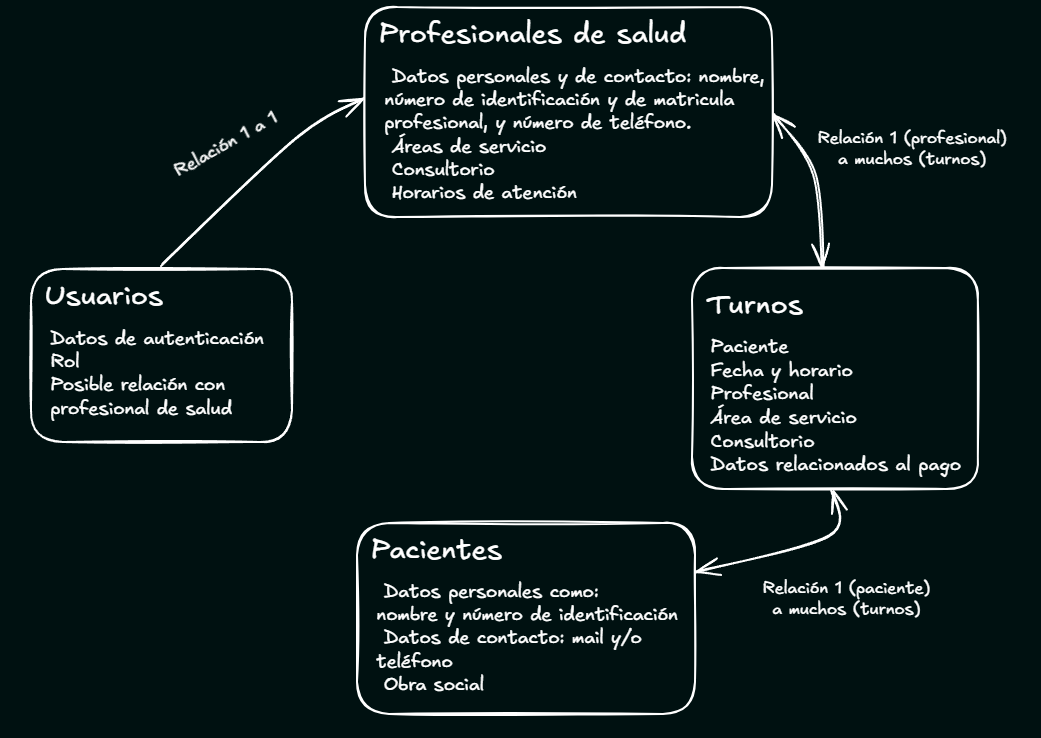
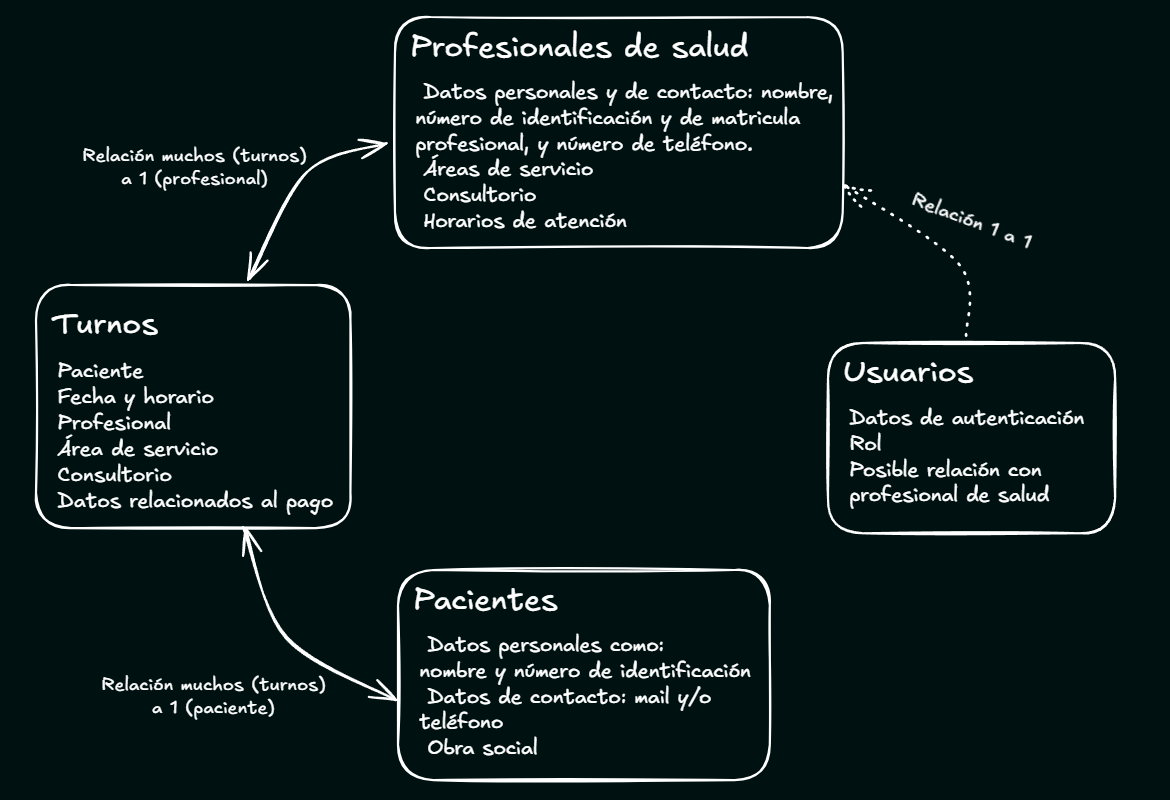
update readme and add images

diff --git a/README.md b/README.md
@@ -225,65 +225,188 @@ Las vistas son aquellas que dividen las operaciones permitidas, y generalmente, 
 #### Capa de controlador
 Permite redirigir las solicitudes del cliente al sistema a la capa de modelo.
 
+### Seguridad y autenticaciones
+La seguridad del sistema está gestionada principalmente a través de **Spring Security**, que provee distintos mecanismos para garantizar la integridad y el control de acceso:
+
+* **Control de CORS**: se configuran los orígenes desde los cuales se permiten las solicitudes hacia la API, asegurando que solo clientes autorizados puedan interactuar con ella.
+* **Protección CSRF**: cada petición es validada mediante un token CSRF, lo que evita ataques de falsificación de solicitudes en sitios cruzados.
+* **Autenticación y autorización por roles**: el acceso a las distintas operaciones de la aplicación está restringido según el rol asignado a cada usuario.
+* **Sesiones de usuario**: las sesiones duran un tiempo determinado, protegiendo a los usuarios de que sus sesiones queden abiertas y otras personas puedan aprovecharse de eso.
+
+#### Roles disponibles
+Existen tres roles principales que definen los permisos de los usuarios dentro de la aplicación:
+
+* **Administrador**: posee control total sobre el sistema. Puede crear, modificar o dar de baja cualquier dato en la base de datos.
+* **General**: orientado al personal administrativo encargado de gestionar pacientes y turnos.
+* **Profesional**: destinado a los profesionales de la salud, quienes pueden visualizar y administrar sus propios turnos, así como actualizar su información personal.
+
+Además:
+* Cualquier usuario, incluso sin iniciar sesión, puede **consultar información pública**.  
+* Las operaciones de **creación, modificación o eliminación de datos** requieren autenticación y el rol adecuado.  
+
+#### Validación de datos
+De manera complementaria, todos los datos ingresados por los usuarios (especialmente a través de formularios) son validados en el backend antes de ser procesados, evitando así inconsistencias y posibles ataques.
+
 ### Entornos
+Existen 2 entornos el de desarrollo, el cual permite ejecutar tanto el frontend como el backend de modo que se reflejan los cambios generados automáticamente. Y el de producción, el cual ejecuta el build del proyecto de React y lo aloja en la carpeta resources/static del proyecto en Spring Boot, ejecutando posteriormente la compilación y el empaquetado del backend a un archivo .jar para luego ser ejecutado.
 
 
 ## Instrucciones de instalación y requisitos
+Estas instrucciones corresponden al caso en que se quiera ejecutar, o levantar el proyecto en modo desarrollo, de forma local. Si no es ese el caso, puede ir directamente al [sitio web](https://administracionturnosclinica.onrender.com) donde está alojada la aplicación, y dirigirse a la [guía de operaciones](#guía-de-operaciones) para saber qué puede hacer y cómo interactuar con el sistema.
+
+Se realizaron ciertos ajustes para poder ejecutar con pocos comandos, ya sea el entorno productivo o el de desarrollo. Logrando que se pueda levantar tanto con o como sin Docker de forma relativamente sencilla.
+
+### Variables de entorno
+Las variables de entorno tienen relación principalmente con propiedades de la base de datos o la ruta de conexión que usaría el frontend para comunicarse con la API. Lo que permite variarlas según requiera el entorno.
+
+Ellas son las siguientes, se muestran con los valores que vienen por defecto:
+```yml
+DB_HOST=localhost #Host donde se encuentra la base de datos.
+DB_USER=root #Nombre de usuario de la base de datos utilizada para acceder a ella.
+DB_PASSWORD=root #Contraseña de usuario de la base de datos
+VITE_API_PREFIX="http://localhost:8080/api" #Ruta que utiliza el frontend para conectarse a la api
+```
+
+### En caso de usar docker
+Teniendo docker en el sistema local, y ejecutándose, alcanza con el siguiente comando en la ubicación raíz del proyecto. Esto empaquetará los servicios y ejecutará los archivos .jar de cada uno.
+
+    #para la primera vez que se quiere levantar el proyecto
+    docker compose f- docker-compose-prod.yml up --build  
+
+    #para las siguientes
+    docker compose up 
+
+Para levantar el sistema en modo desarrollo se usan los comandos:
+
+    #para la primera vez que se quiere levantar el proyecto
+    docker compose -f docker-compose-dev.yml up --build
+
+    #para las siguientes
+    docker compose -f docker-compose-dev.yml up
+
+Las variables de entorno ya vienen actualizadas para cada entorno, utilizando como host el nombre de los contenedores y sincronizando con los datos de la imagen de la base de datos. En caso de que se quiera modificar se debe crear un archivo .env en la carpeta raíz del proyecto, aclarando los valores como se muestra en los valores de ejemplo.
+    
+### En caso de no usar docker
+**REQUISITOS:**
+
+Si se quiere correr el proyecto sin docker es necesario contar con los siguientes recursos:
+- Este proyecto requiere instalar y tener correctamente configuradas las variables de entorno para **Java JDK** y **Maven**, tanto en Windows como en sistemas basados en Unix (Linux/macOS).
+  #### Windows
+  Se debe agregar al `Path` del sistema (Variable de entorno) las rutas a:
+
+  - El bin del **JDK**, en el proyecto se usa la versión 17 (ejemplo: `C:\Program Files\Java\jdk-17\bin`)
+  - El bin de **Maven** (ejemplo: `C:\apache-maven-3.9.6\bin`)
+
+  Para esto buscar la opción "Editar las variables de entorno" en el panel de control y hacer click en el botón "Variables de entorno...", ubicado en la pestaña Opciones avanzadas.
+
+  #### Linux / macOS
+  En sistemas Unix-like, es necesario agregar las siguientes líneas al archivo de configuración del shell:
+
+      export JAVA_HOME=/ruta/a/tu/jdk
+      export PATH=$JAVA_HOME/bin:$PATH
+
+      export MAVEN_HOME=/ruta/a/apache-maven
+      export PATH=$MAVEN_HOME/bin:$PATH
+
+  Estos cambios deben agregarse en uno de los siguientes archivos, según el shell que se utilice en el sistema:
+
+  | Shell |	Archivo de configuración |
+  | ---- | ---- |
+  | Bash |	~/.bashrc o ~/.bash_profile |
+  | Zsh (macOS) |	~/.zshrc |
+  | Fish | ~/.config/fish/config.fish |
+
+  Después de editarlos, aplicá los cambios con: <code>source ~/.bashrc</code> o <code>~/.zshrc</code> según corresponda
+
+  **Se puede verificar las configuraciones en una terminal (CMD o PowerShell) ejecutando:**
+      java -version
+      javac -version
+      mvn -version
+
+- Tener instalado el server de MySql, al menos la versión 8.0. Los valores que se asignen a la cuenta serán los que deberán ir en las [variables de entorno](#variables-de-entorno) (por defecto se usa root para el usuario principal y también para la contraseña, a menos que se indique lo contrario).
+- Tener Node.js versión 20 instalado
+
+Las variables de entorno para el backend tienen su valor por defecto en caso de que no se asignen, en caso de querer cambiarlas se deberá asignar el nuevo valor cambiando los valores por defecto en el application.properties (dentro de /backend/src/main/resources), o mediante las variables de entorno según su sistema operativo (o IDE si aplica).
+
+Para la variable de entorno del frontend alcanza con crear un archivo ``.env``, en la ruta /frontend, con el nuevo valor como se muestra en [el ejemplo](#variables-de-entorno).
+
+**OBTENER DEPENDENCIAS:**
+
+Antes de ejecutar el sistema en cualquier perfil hay que instalar las dependencias. Para eso se usan los siguientes comandos, siendo el primero para las dependencias de ejecución generales y el segundo para las dependencias del frontend:
+```bash
+npm install
+
+npm run install
+```
+
+**MODO DE DESARROLLO:**
+
+Teniendo los recursos necesarios (Java, Maven, MySQL, Node) se puede levantar tanto el frontend como el backend a la par con el comando:
+```
+npm run dev
+```
+La interfaz se puede visualizar accediendo a [http://localhost:5173](http://localhost:5173), y la api estará alojada en [http://localhost:8080](http://localhost:8080).
+
+**MODO DE PRODUCCIÓN:**
+
+Para levantarlo en modo de producción se realizan dos comandos la primera vez. Luego alcanza con ejecutar solamente el segundo.
+
+El primero debe ser ejecutado cada vez que hayan nuevos cambios, ya sea en el frontend o en el backend, para que haga los build de ambos combinados; el segundo es para ejecutarlo directamente, *pero requiere que al menos una vez se haya hecho el primero*.
+```
+npm run prod:build
+
+npm run prod
+```
+En este caso toda la aplicación estará levantada en [http://localhost:8080](http://localhost:8080).
+
+## Guía de operaciones
+En esta la guía se mostrará cómo se realizan las operaciones disponibles en la aplicación. 
+
+> Para acceder mediante rutas a cualquiera de las operaciones se la debe agregar posterior a la ruta original, ej: https://administracionturnosclinica.onrender.com/turno/crear para la creación de turnos.
+
+Las vistas que refieren a registros muestran mensajes en caso de algún error, como falta de campo requerido, advertencia de registro ya existente, o error del sistema.
+
+### Registrar nuevo usuario
+- **Acceso:** A través de la ruta ``/signup``, o mediante el botón en la barra de navegación.
+  
+  <img src="./docs/resources/action_signUp.png">
+  <img src="./docs/resources/vista_registroUsuario.png">
+
+### Inicio de sesión
+- **Acceso:** Mediante la ruta ``/login`` o mediante el botón en el menú.
+
+### Registrar turnos
+- **Acceso:** A través de la ruta ``/turno/crear``, o mediante del enlace correspondiente en el menú. 
+  
+  <img src="./docs/resources/action_creacionTurno.png">
+- **Permisos:** Esta acción es posible si se inició sesión en el sistema con cualquiera de los roles. En el caso de los usuarios con rol *PROFESIONAL* solo podrán crear turnos asignados automáticamente a ellos mismos.
 
 
-## Autenticación
+Aparecerá un formulario en el que se deben ingresar los datos que corresponden al nuevo turno. Es necesario, para asociar un paciente, que este ya se encuentre registrado en el sistema.
 
-## Características generales y casos de uso
+<img src="./docs/resources/vista_creacionTurnos.png">
 
-### Acerca de los usuarios...
-  (* Hay 3 roles para los usuarios que se registren: Administrador, General y Profesional.
-  -* El Administrador puede crear, modificar o dar de baja cualquier dato que este presente en la base de datos de la aplicación.
-  -* El **rol "General" es el que usaría quien este a cargo de registrar los turnos y pacientes**, contando también con la posibilidad de modificarlos
-  -* Los usuarios con **rol "Profesional"** están destinados a los profesionales de salud, **permitiéndoles visualizar y manejar sus turnos de forma más directa.** Así como sus propios datos.
-  -* Cualquier usuario, o incluso sin iniciar sesión, podrá visualizar los datos que quiera. Pero modificarlos, o crear nuevos, depende del rol.)
+> El calendario solo aparecerá si se selecciona un área de servicio y esta posea algún personal de salud asociado. Se puede hacer click en las celdas que aparecen disponibles para asignar esa fecha y horario de forma más sencilla. También muestra los turnos que ya están ocupados.
+> <img src="./docs/resources/vista_creacionTurnos2.webp">
 
-  (eso iría en la sección de autorizaciones y autenticaciones)
+### Registrar pacientes
+- **Acceso:** A través de la ruta ``/paciente/registrar``, o mediante el enlace en el menú.
+  
+  <img src="./docs/resources/action_creacionPaciente.png">
+- **Permisos:** Solo podrán realizarla los usuarios con rol GENERAL o ADMIN.
 
-  * Para que la navegación sea más práctica, solo aparecerán los enlaces en el menú a los que el usuario en sesión puede acceder.  
+Formulario sencillo donde se rellena con los datos del paciente.
 
-### Acerca del manejo de datos...
-    * (Esto en explicación de los procesos - ver dónde iría eso)
-  * La búsqueda de cada tipo de dato cuenta con filtros y búsquedas personalizadas para cada uno.
-  * **El registro o modificación de datos cuenta con verificaciones** que comprueban que no se sobreponga con otros, entre otras **validaciones**. Mostrando mensajes de error si algún dato en específico causaría este problema.
-  * **En caso de que haya errores se mostrarán en pantalla.**
-  * Tanto la creación como la modificación de turnos muestra un calendario en el que puedes seleccionar el horario y la fecha de forma más sencilla. A su vez que muestra los turnos ya ocupados para el área seleccionada y profesional.
-  * Si quien crea un turno es un profesional, solo podrá hacerlo para las áreas en las que él se encuentre registrado. Y en cuánto a la modificación, 
-  solo aquellos turnos que ya tenga asignados, y también solo para las áreas mencionadas.
-  * Cuando se da de baja un area de servicio o profesional se puede elegir qué hacer con los turnos que estén asociados. Pudiendo darlos de baja también.
+<img src="./docs/resources/vista_creacionPacientes.png">
 
-### Acerca de los datos...
-  * La sección principal muestra los turnos del día para cada área, o para las áreas en que un profesional esté registrado si el usuario en sesión tiene el rol "Profesional". (Para donde se expliquen las vistas)
+### Registrar profesionales de salud
+- **Acceso:** A través de la ruta ``/profesional/registrar``, o mediante el enlace en el menú.
+- **Permisos:** Esta acción solo puede ser empleada por el usuario ADMIN.
 
-## Características técnicas
-  * Base de datos relacional SQL
-  * Desarrollo de una API REST
-  * Arquitectura cliente-servidor. Comunicación con la API a través de solicitudes HTTP
-  * Api con protección CORS específica
-  * Sesión de usuario, registro y roles con diferentes permisos. Tanto para la api como para la página
-  * Encriptado de contraseñas de usuario mediante el codificador BCrypt
-  * Generación y utilización de token CSRF para proteger ante posibles ataques de seguridad a la base de datos
-  * Verificaciones y validaciones tanto en el back como en el front
-  * Excepciones personalizadas y envío de DTOs para mejorar la comunicación de errores y manejarlos en el frontend
-  * Aplicación de principios SOLID
-  * Componentes reutilizables
-  * Visualizaciones en tablas, registros en formularios, y búsqueda dinámica de datos
-  * Diseño responsivo
-  * Desarrollo de pruebas unitarias
+<img src="./docs/resources/vista_creacionProfesionales.png">
 
-  ### Tecnologías aplicadas
-  * HTML
-  * CSS
-  * TypeScript
-  * React.js
-  * Java
-  * MySQL
-  * Spring Boot
-  * Spring Security
+### Registro de áreas de servicio y consultorios
+- **Acceso:** Ambas acciones se pueden realizar mediante la misma ruta ``/areas_consultorios/crear``, o bien mediante la opción en el menú.
 
 ## Comentarios del proceso
 Luego de completar un curso de desarrollo web de más de un año y medio, buscaba un proyecto donde pudiera aplicar de forma integral los conocimientos adquiridos. Quería una aplicación completa, con base de datos, una interfaz intuitiva y una API que conectara todos los componentes de manera segura, escalable y práctica.
